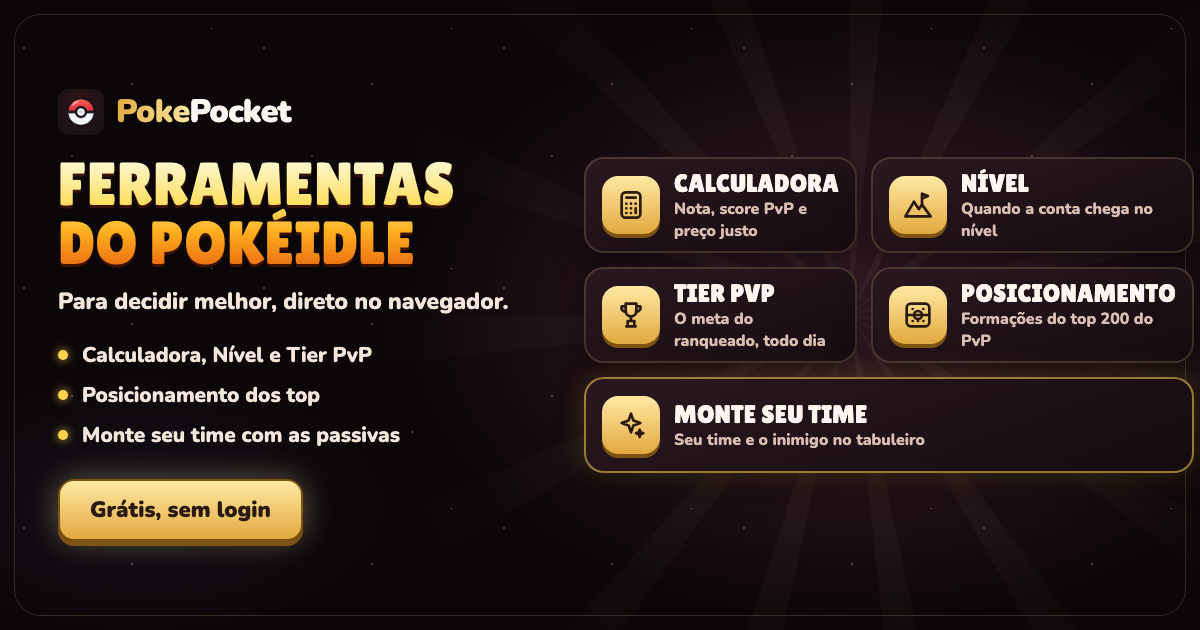
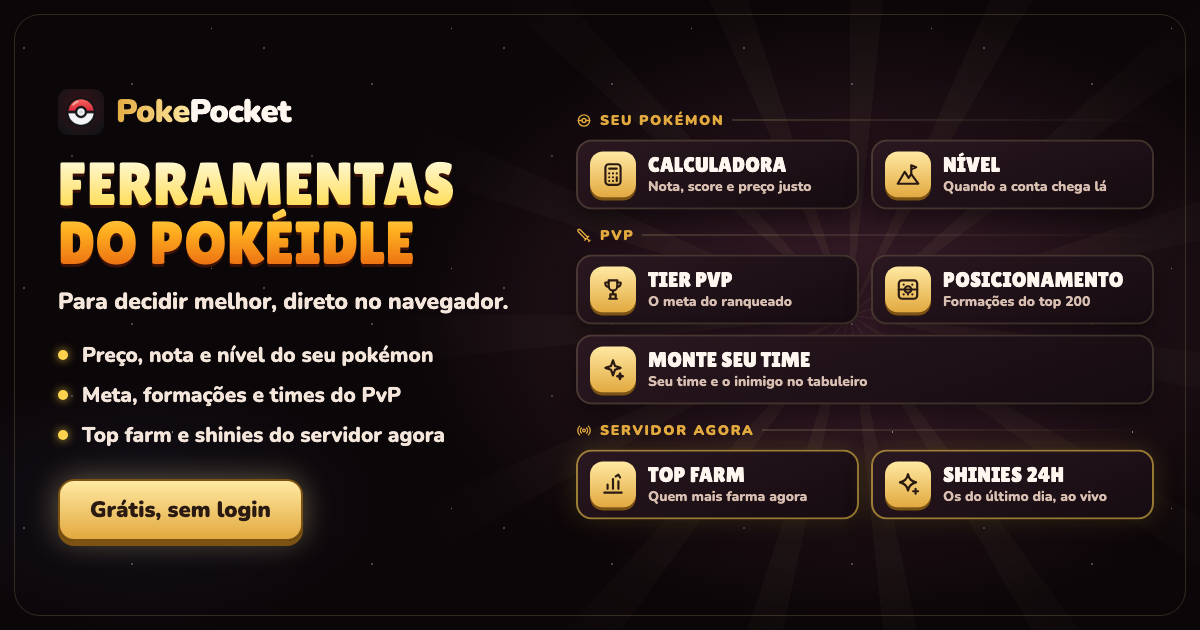
feat(ferramentas): prévia do link com as sete ferramentas por seção

Changed region(s): [[0.4625, 0.181, 1.0, 0.8444], [0.0617, 0.6032, 0.37, 0.7238], [0.0617, 0.5429, 0.37, 0.573]]

diff --git a/ferramentas/previas/ferramentas.html b/ferramentas/previas/ferramentas.html
@@ -9,13 +9,18 @@
 <style>
 h1 { font-family: "Lilita"; font-weight: 400; font-size: 60px; line-height: 0.98; letter-spacing: 0.01em; text-transform: uppercase; background: linear-gradient(180deg, #fffbe0 0%, #ffe066 40%, #ffb020 65%, #e8650f 100%); -webkit-background-clip: text; background-clip: text; color: transparent; filter: drop-shadow(0 3px 0 #3b1208); }
 .sub { margin-top: 14px; font-size: 23px; font-weight: 800; color: #f5e6dc; }
-.grade { position: absolute; left: 584px; top: 50%; width: 566px; transform: translateY(-50%); display: grid; grid-template-columns: 1fr 1fr; gap: 14px; }
-.card { display: grid; grid-template-columns: 58px 1fr; grid-template-rows: auto auto; column-gap: 14px; align-items: center; height: 96px; padding: 0 18px; border-radius: 20px; background: linear-gradient(160deg, #2a1820, #150b10); box-shadow: inset 0 0 0 2px rgba(255, 233, 163, 0.16), 0 14px 30px rgba(0, 0, 0, 0.45); }
-.card:last-child { grid-column: 1 / -1; box-shadow: inset 0 0 0 2px rgba(255, 211, 77, 0.55), 0 0 30px rgba(255, 211, 77, 0.18), 0 14px 30px rgba(0, 0, 0, 0.45); }
-.ic { grid-row: 1 / 3; display: grid; place-items: center; width: 58px; height: 58px; border-radius: 16px; color: #2a1a12; background: linear-gradient(180deg, #ffe9a3, #e2a93f); box-shadow: 0 4px 0 #7d5313; }
-.ic svg { width: 32px; height: 32px; }
-.card b { align-self: end; font-family: "Lilita"; font-weight: 400; font-size: 25px; letter-spacing: 0.01em; text-transform: uppercase; color: #fff6ef; }
-.card small { align-self: start; font-size: 16px; font-weight: 800; color: #d8bfb1; }
+.grade { position: absolute; left: 576px; top: 50%; width: 578px; transform: translateY(-50%); display: grid; grid-template-columns: 1fr 1fr; gap: 10px 12px; }
+.sec { grid-column: 1 / -1; display: flex; align-items: center; gap: 8px; margin-top: 6px; font-size: 14px; font-weight: 900; letter-spacing: 0.12em; text-transform: uppercase; color: #e2a93f; }
+.sec:first-child { margin-top: 0; }
+.sec svg { width: 16px; height: 16px; }
+.sec::after { content: ""; flex: 1; height: 1px; background: linear-gradient(90deg, rgba(255, 233, 163, 0.3), transparent); }
+.card { display: grid; grid-template-columns: 46px 1fr; grid-template-rows: auto auto; column-gap: 12px; align-items: center; height: 70px; padding: 0 14px; border-radius: 16px; background: linear-gradient(160deg, #2a1820, #150b10); box-shadow: inset 0 0 0 2px rgba(255, 233, 163, 0.16), 0 10px 24px rgba(0, 0, 0, 0.45); }
+.card.larga { grid-column: 1 / -1; }
+.card.novo { box-shadow: inset 0 0 0 2px rgba(255, 211, 77, 0.55), 0 0 26px rgba(255, 211, 77, 0.16), 0 10px 24px rgba(0, 0, 0, 0.45); }
+.ic { grid-row: 1 / 3; display: grid; place-items: center; width: 46px; height: 46px; border-radius: 13px; color: #2a1a12; background: linear-gradient(180deg, #ffe9a3, #e2a93f); box-shadow: 0 3px 0 #7d5313; }
+.ic svg { width: 26px; height: 26px; }
+.card b { align-self: end; font-family: "Lilita"; font-weight: 400; font-size: 21px; line-height: 1.05; letter-spacing: 0.01em; text-transform: uppercase; color: #fff6ef; white-space: nowrap; }
+.card small { align-self: start; font-size: 14px; font-weight: 800; color: #d8bfb1; white-space: nowrap; }
 </style>
 </head>
 <body>
@@ -25,12 +30,12 @@ h1 { font-family: "Lilita"; font-weight: 400; font-size: 60px; line-height: 0.98
   <h1 style="margin-top:20px">Ferramentas<br />do Pokéidle</h1>
   <p class="sub">Para decidir melhor, direto no navegador.</p>
   <ul class="lista">
-    <li><i></i>Calculadora, Nível e Tier PvP</li>
-    <li><i></i>Posicionamento dos top</li>
-    <li><i></i>Monte seu time com as passivas</li>
+    <li><i></i>Preço, nota e nível do seu pokémon</li>
+    <li><i></i>Meta, formações e times do PvP</li>
+    <li><i></i>Top farm e shinies do servidor agora</li>
   </ul>
   <span class="botao">Grátis, sem login</span>
 </div>
-<div class="grade"><div class="card"><span class="ic"><svg viewBox="0 0 24 24" fill="none" stroke="currentColor" stroke-width="2" stroke-linecap="round" stroke-linejoin="round"><rect x="5" y="2.5" width="14" height="19" rx="3"/><path d="M8.5 6.5h7M8.5 11h.01M12 11h.01M15.5 11h.01M8.5 14.5h.01M12 14.5h.01M8.5 18h.01M12 18h.01M15.5 14.5V18"/></svg></span><b>Calculadora</b><small>Nota, score PvP e preço justo</small></div><div class="card"><span class="ic"><svg viewBox="0 0 24 24" fill="none" stroke="currentColor" stroke-width="2" stroke-linecap="round" stroke-linejoin="round"><path d="M2.5 20.5 9 9.5l3.6 5.6 2.4-3.4 6.5 8.8z"/><path d="M15 11.7V3.5l4.5 1.8L15 7.1"/></svg></span><b>Nível</b><small>Quando a conta chega no nível</small></div><div class="card"><span class="ic"><svg viewBox="0 0 24 24" fill="none" stroke="currentColor" stroke-width="2" stroke-linecap="round" stroke-linejoin="round"><path d="M8 3.5h8V9a4 4 0 0 1-8 0z"/><path d="M8 5.5H5a3 3 0 0 0 3.2 4M16 5.5h3a3 3 0 0 1-3.2 4M12 13v3.5M8.5 20.5h7M9.5 16.5h5v4h-5z"/></svg></span><b>Tier PvP</b><small>O meta do ranqueado, todo dia</small></div><div class="card"><span class="ic"><svg viewBox="0 0 24 24" fill="none" stroke="currentColor" stroke-width="2" stroke-linecap="round" stroke-linejoin="round"><rect x="3.5" y="3.5" width="17" height="17" rx="3"/><path d="M3.5 12h17"/><circle cx="12" cy="12" r="3"/><path d="M8 7.5h.01M16 7.5h.01M8 16.5h.01M12 16.5h.01M16 16.5h.01"/></svg></span><b>Posicionamento</b><small>Formações do top 200 do PvP</small></div><div class="card"><span class="ic"><svg viewBox="0 0 24 24" fill="none" stroke="currentColor" stroke-width="2" stroke-linecap="round" stroke-linejoin="round"><path d="M12 3.5l1.8 5.2 5.2 1.8-5.2 1.8L12 17.5l-1.8-5.2L5 10.5l5.2-1.8z"/><path d="M18.5 15.5l.7 2 2 .7-2 .7-.7 2-.7-2-2-.7 2-.7z"/></svg></span><b>Monte seu time</b><small>Seu time e o inimigo no tabuleiro</small></div></div>
+<div class="grade"><div class="sec"><svg viewBox="0 0 24 24" fill="none" stroke="currentColor" stroke-width="2" stroke-linecap="round" stroke-linejoin="round"><circle cx="12" cy="12" r="8.5"/><path d="M3.5 12h5.5M15 12h5.5"/><circle cx="12" cy="12" r="3"/></svg>Seu pokémon</div><div class="card"><span class="ic"><svg viewBox="0 0 24 24" fill="none" stroke="currentColor" stroke-width="2" stroke-linecap="round" stroke-linejoin="round"><rect x="5" y="2.5" width="14" height="19" rx="3"/><path d="M8.5 6.5h7M8.5 11h.01M12 11h.01M15.5 11h.01M8.5 14.5h.01M12 14.5h.01M8.5 18h.01M12 18h.01M15.5 14.5V18"/></svg></span><b>Calculadora</b><small>Nota, score e preço justo</small></div><div class="card"><span class="ic"><svg viewBox="0 0 24 24" fill="none" stroke="currentColor" stroke-width="2" stroke-linecap="round" stroke-linejoin="round"><path d="M2.5 20.5 9 9.5l3.6 5.6 2.4-3.4 6.5 8.8z"/><path d="M15 11.7V3.5l4.5 1.8L15 7.1"/></svg></span><b>Nível</b><small>Quando a conta chega lá</small></div><div class="sec"><svg viewBox="0 0 24 24" fill="none" stroke="currentColor" stroke-width="2" stroke-linecap="round" stroke-linejoin="round"><path d="M14.5 17.5 3 6V3h3l11.5 11.5M13 19l6-6M16 16l4 4M19 21l2-2"/></svg>PvP</div><div class="card"><span class="ic"><svg viewBox="0 0 24 24" fill="none" stroke="currentColor" stroke-width="2" stroke-linecap="round" stroke-linejoin="round"><path d="M8 3.5h8V9a4 4 0 0 1-8 0z"/><path d="M8 5.5H5a3 3 0 0 0 3.2 4M16 5.5h3a3 3 0 0 1-3.2 4M12 13v3.5M8.5 20.5h7M9.5 16.5h5v4h-5z"/></svg></span><b>Tier PvP</b><small>O meta do ranqueado</small></div><div class="card"><span class="ic"><svg viewBox="0 0 24 24" fill="none" stroke="currentColor" stroke-width="2" stroke-linecap="round" stroke-linejoin="round"><rect x="3.5" y="3.5" width="17" height="17" rx="3"/><path d="M3.5 12h17"/><circle cx="12" cy="12" r="3"/><path d="M8 7.5h.01M16 7.5h.01M8 16.5h.01M12 16.5h.01M16 16.5h.01"/></svg></span><b>Posicionamento</b><small>Formações do top 200</small></div><div class="card larga"><span class="ic"><svg viewBox="0 0 24 24" fill="none" stroke="currentColor" stroke-width="2" stroke-linecap="round" stroke-linejoin="round"><path d="M12 3.5l1.8 5.2 5.2 1.8-5.2 1.8L12 17.5l-1.8-5.2L5 10.5l5.2-1.8z"/><path d="M18.5 15.5l.7 2 2 .7-2 .7-.7 2-.7-2-2-.7 2-.7z"/></svg></span><b>Monte seu time</b><small>Seu time e o inimigo no tabuleiro</small></div><div class="sec"><svg viewBox="0 0 24 24" fill="none" stroke="currentColor" stroke-width="2" stroke-linecap="round" stroke-linejoin="round"><circle cx="12" cy="12" r="2"/><path d="M8.2 15.8a5.4 5.4 0 0 1 0-7.6M15.8 8.2a5.4 5.4 0 0 1 0 7.6M5.4 18.6a9.3 9.3 0 0 1 0-13.2M18.6 5.4a9.3 9.3 0 0 1 0 13.2"/></svg>Servidor agora</div><div class="card novo"><span class="ic"><svg viewBox="0 0 24 24" fill="none" stroke="currentColor" stroke-width="2" stroke-linecap="round" stroke-linejoin="round"><path d="M4 19.5h16"/><path d="M7 16v-4M12 16V7M17 16v-7"/><path d="M14.5 4.5 17 3l1.5 2.5"/></svg></span><b>Top farm</b><small>Quem mais farma agora</small></div><div class="card novo"><span class="ic"><svg viewBox="0 0 24 24" fill="none" stroke="currentColor" stroke-width="2" stroke-linecap="round" stroke-linejoin="round"><path d="M12 2.5c.9 4.6 2.9 6.6 7.5 7.5-4.6.9-6.6 2.9-7.5 7.5-.9-4.6-2.9-6.6-7.5-7.5 4.6-.9 6.6-2.9 7.5-7.5z"/><path d="M19 16v4.5M16.75 18.25h4.5"/></svg></span><b>Shinies 24h</b><small>Os do último dia, ao vivo</small></div></div>
 </body>
 </html>

diff --git a/ferramentas/inicio.html b/ferramentas/inicio.html
@@ -5,16 +5,16 @@
   <base href="/pokepocket/calculadora/" />
   <meta name="viewport" content="width=device-width, initial-scale=1" />
   <title>Ferramentas do Pokéidle · PokePocket</title>
-  <meta name="description" content="Ferramentas grátis para o Pokéidle: calculadora de pokémon com nota, score e preço, calculadora de nível, tier PvP diário e posicionamento dos top." />
+  <meta name="description" content="Ferramentas grátis para o Pokéidle: calculadora de pokémon com nota, score e preço, calculadora de nível, tier PvP diário, posicionamento e monte seu time, top farm e shinies 24h ao vivo." />
   <meta name="theme-color" content="#0b0608" />
   <meta property="og:type" content="website" />
   <meta property="og:site_name" content="PokePocket" />
   <meta property="og:locale" content="pt_BR" />
   <meta property="og:title" content="Ferramentas do Pokéidle · PokePocket" />
-  <meta property="og:description" content="Calculadora de pokémon, nível, tier PvP e posicionamento dos top. Grátis, no navegador e sem login." />
+  <meta property="og:description" content="Calculadora, nível, tier PvP, posicionamento, monte seu time, top farm e shinies 24h. Grátis, no navegador e sem login." />
   <meta property="og:url" content="https://iampiscis.github.io/pokepocketferramentas/" />
-  <meta property="og:image" content="https://iampiscis.github.io/pokepocket/assets/previa-ferramentas.png?v=202611281704" />
-  <meta name="twitter:image" content="https://iampiscis.github.io/pokepocket/assets/previa-ferramentas.png?v=202611281704" />
+  <meta property="og:image" content="https://iampiscis.github.io/pokepocket/assets/previa-ferramentas.png?v=202611281447" />
+  <meta name="twitter:image" content="https://iampiscis.github.io/pokepocket/assets/previa-ferramentas.png?v=202611281447" />
   <meta name="twitter:card" content="summary_large_image" />
   <link rel="icon" href="../assets/icone.png" />
   <link rel="stylesheet" href="../assets/ferramentas.css?v=20261128" />
